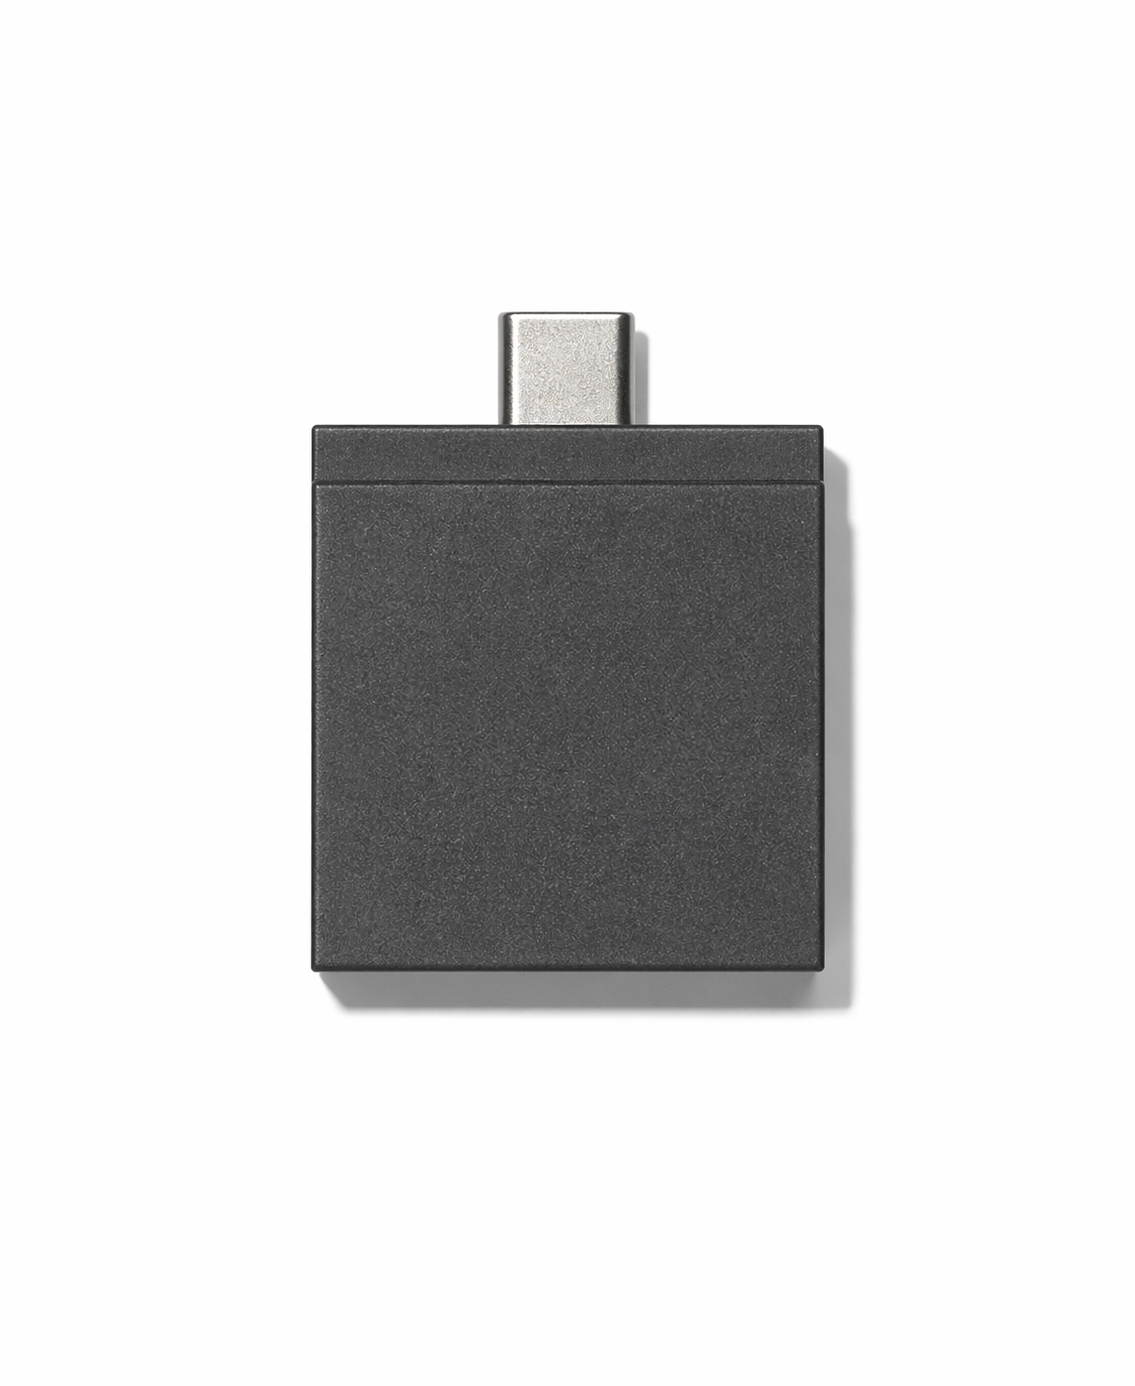
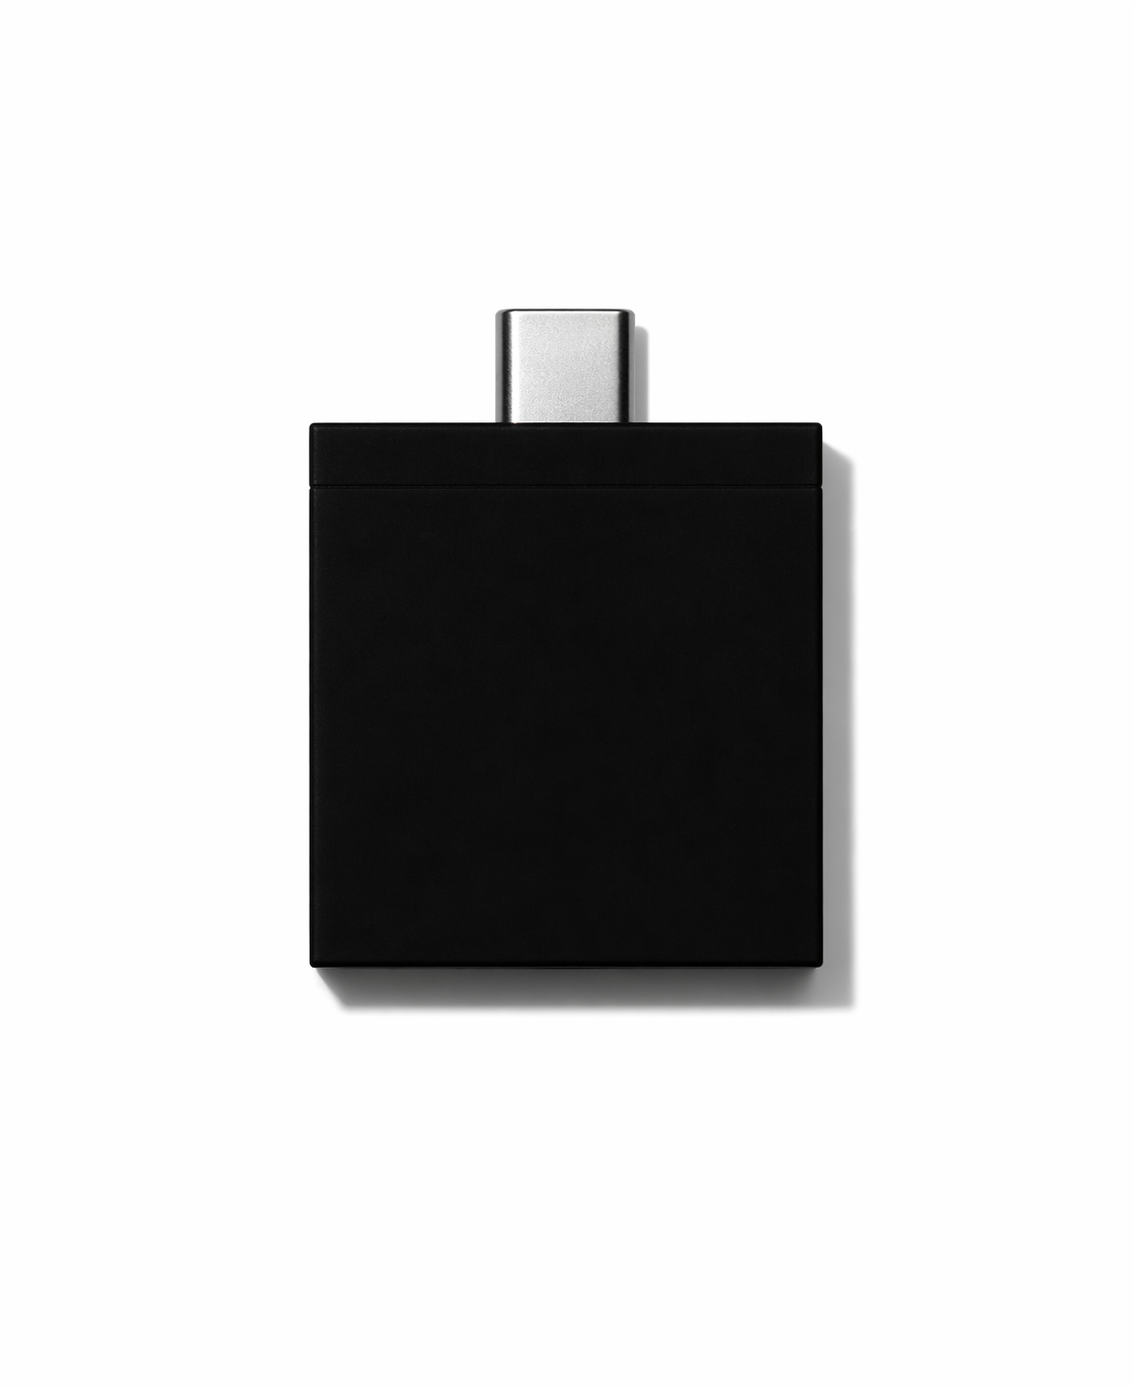
Add Framework Laptop 13 Pro model and assets
Introduce the Framework Laptop 13 Pro: add laptop-13-pro.json (backs, expansion slots, graphite finish), import and include the new model in laptops.ts and laptop-models.ts, and add a new expansion-card entry (plastic-graphite) in expansion-cards.json. Update image assets for the graphite variants under public/images and adjust the home UI copy/layout to reflect four models (text and grid columns). Also remove an unused router/useHref reference in __root.tsx.

Changed region(s): [[0.2469, 0.2172, 0.7716, 0.7446]]

diff --git a/src/data/laptops.ts b/src/data/laptops.ts
@@ -12,6 +12,7 @@
 import type { ExpansionCardId } from "#/data/expansion-cards";
 import laptop12 from "./laptops/laptop-12.json";
 import laptop13 from "./laptops/laptop-13.json";
+import laptop13Pro from "./laptops/laptop-13-pro.json";
 import laptop16 from "./laptops/laptop-16.json";
 
 /** A rectangle in pixel coordinates of a back-finish photo. */
@@ -95,7 +96,11 @@ export type LaptopBack = {
 	view: LaptopRect;
 };
 
-export type LaptopId = "laptop-12" | "laptop-13" | "laptop-16";
+export type LaptopId =
+	| "laptop-12"
+	| "laptop-13"
+	| "laptop-13-pro"
+	| "laptop-16";
 
 export type Laptop = {
 	id: LaptopId;
@@ -116,6 +121,7 @@ export type Laptop = {
 export const LAPTOPS: ReadonlyArray<Laptop> = [
 	laptop12 as Laptop,
 	laptop13 as Laptop,
+	laptop13Pro as Laptop,
 	laptop16 as Laptop,
 ];
 

diff --git a/src/data/laptop-models.ts b/src/data/laptop-models.ts
@@ -1,5 +1,5 @@
 export type LaptopModel = {
-	id: "laptop-12" | "laptop-13" | "laptop-16";
+	id: "laptop-12" | "laptop-13" | "laptop-13-pro" | "laptop-16";
 	name: string;
 	tagline: string;
 	description: string;
@@ -24,6 +24,15 @@ export const LAPTOP_MODELS: ReadonlyArray<LaptopModel> = [
 		description:
 			"A 13.5-inch productivity laptop with swappable ports, user-upgradable memory, storage, and mainboard.",
 		image: "/images/laptop-13/backs/silver.png",
+		status: "live",
+	},
+	{
+		id: "laptop-13-pro",
+		name: "Framework Laptop 13 Pro",
+		tagline: "A pro-grade take on the 13",
+		description:
+			"A refined Framework Laptop 13 with a graphite finish, tuned for a premium, blacked-out look.",
+		image: "/images/laptop-13-pro/graphite.png",
 		status: "live",
 	},
 	{

diff --git a/src/routes/index.tsx b/src/routes/index.tsx
@@ -72,7 +72,7 @@ function Home() {
 								Pick a laptop
 							</h2>
 							<p className="mt-2 max-w-xl text-muted">
-								Three sizes. Same repairable, upgradeable philosophy.
+								Four models. Same repairable, upgradeable philosophy.
 							</p>
 						</div>
 						<Link className="text-sm" href="https://frame.work" target="_blank">
@@ -81,7 +81,7 @@ function Home() {
 						</Link>
 					</div>
 
-					<div className="grid grid-cols-1 gap-5 md:grid-cols-3">
+					<div className="grid grid-cols-1 gap-5 sm:grid-cols-2 lg:grid-cols-4">
 						{LAPTOP_MODELS.map((model) => {
 							const isLive = model.status === "live";
 							const laptop = getLaptopById(model.id);

diff --git a/src/routes/__root.tsx b/src/routes/__root.tsx
@@ -47,7 +47,6 @@ export const Route = createRootRoute({
 
 function RootDocument({ children }: { children: React.ReactNode }) {
 	const navigate = useNavigate();
-	const router = useRouter();
 
 	return (
 		<html lang="en" suppressHydrationWarning className="dark">
@@ -57,7 +56,6 @@ function RootDocument({ children }: { children: React.ReactNode }) {
 			<body className="flex min-h-screen flex-col bg-background text-foreground lg:h-dvh lg:min-h-0">
 				<RouterProvider
 					navigate={(to, options) => navigate({ to, ...options })}
-					useHref={(to) => router.buildLocation({ to }).href}
 				>
 					<AppHeader />
 					<main className="flex-1 lg:min-h-0">{children}</main>
